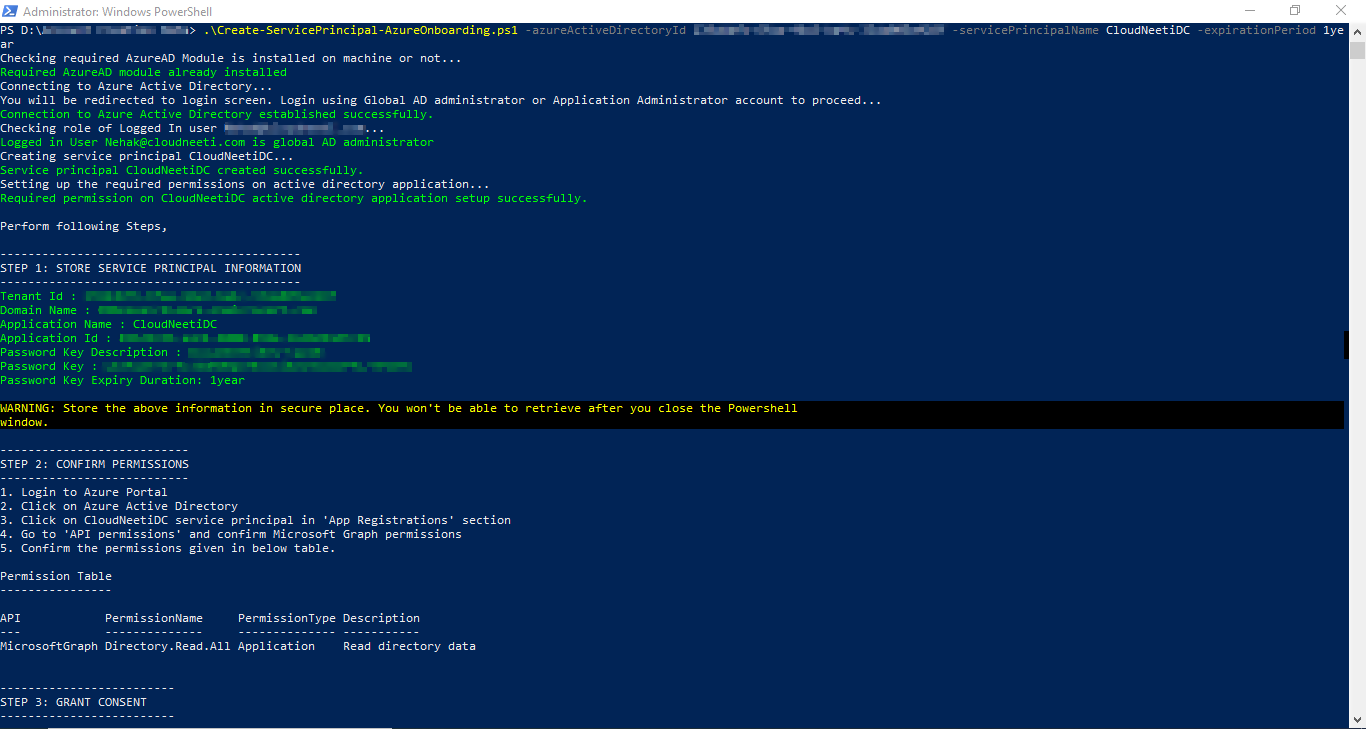
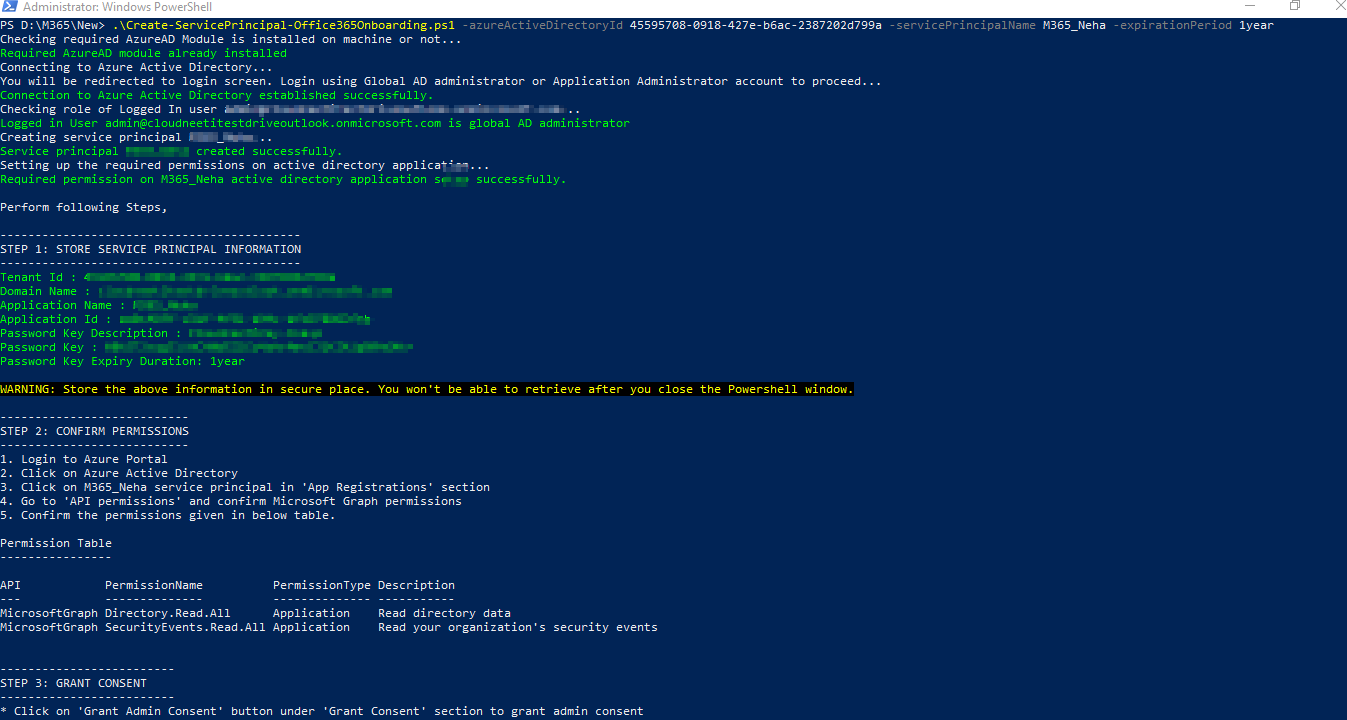
Task 11126 : Updated the image for Office 365, added link for permissions

Changed region(s): [[0.0, 0.0, 1.0, 1.0]]

diff --git a/docs/onboardingGuide/onboardingOffice365Subscription.md b/docs/onboardingGuide/onboardingOffice365Subscription.md
@@ -201,10 +201,10 @@ Cloudneeti application to be able to collect the Azure AD data.
 4. Click **Grant admin consent** in the Grant consent section
 5. Review permissions as below listed (1)
 
-| API             | Permission Name                                                                                                     | Type        |
+	| API             | Permission Name                                                                                                     | Type        |
 |-----------------|---------------------------------------------------------------------------------------------------------------------|-------------|
 | Microsoft.Graph | Directory.Read.All [Refer here](https://docs.microsoft.com/en-us/graph/permissions-reference#directory-permissions) | Application |
-| Microsoft.Graph | SecurityEvents.Read.All                                                                                             | Application |
+| Microsoft.Graph | SecurityEvents.Read.All [Refer here](https://docs.microsoft.com/en-us/graph/permissions-reference#security-permissions)  | Application |
 
 6. Click **Grant admin consent** in the Grant consent section (2)
 	![Grant_Admin_Consent](.././images/onboardingOffice365Subscription/Grant_Admin_Consent.png#thumbnail)
@@ -401,6 +401,7 @@ wait for activation to be done. When Cloudneeti activates your subscription, you
 will get an email notification.
 
 Once you receive the confirmation, proceed with the following steps.
+
 1. Click on **Username**
 2. Select **Profile**
 3. Click on **Show**

diff --git a/docs/onboardingGuide/azureSubscriptions.md b/docs/onboardingGuide/azureSubscriptions.md
@@ -169,8 +169,8 @@ Use the Create-ServicePrincipal-AzureOnboarding.ps1 script to create and registe
     .\Create-ServicePrincipal-AzureOnboarding.ps1 `
         -azureActiveDirectoryId <Active_Directory_Id> `
         -servicePrincipalName <data_collector_name> `
-        -expirationPeriod 1year
-    -disableADPolicies
+        -expirationPeriod 1year `
+        -disableADPolicies
 	```</code>
 	</pre>
     
